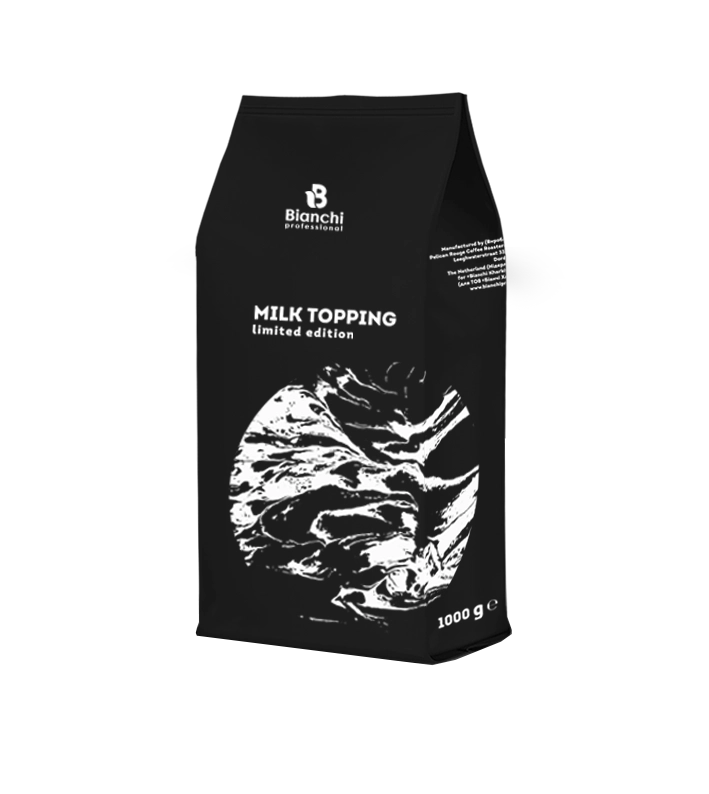
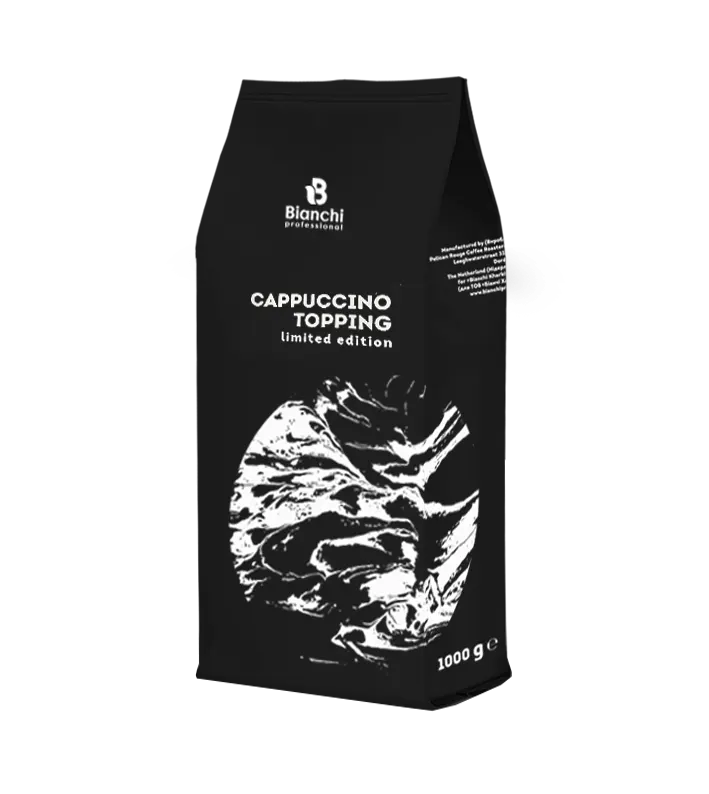
Cappuccino Topping

diff --git a/src/ru/moloko_shokolad.html b/src/ru/moloko_shokolad.html
@@ -338,7 +338,7 @@
             </figcaption>
           </figure>
           <div class="card-body">
-            <h3 class="text-center">Сухая молочная смесь Bianchi <br /> Milk Topping</h3><br />
+            <h3 class="text-center">Сухая молочная смесь Bianchi <br /> Bianchi Professional</h3><br />
             <small>
               <p class="lh-sm">
                 Молочные сухие смеси – это основа для создания многих любимых кофейных напитков.
@@ -346,7 +346,7 @@
                 текстуру и вкус молочной пенки или базы для латте и других кофейных коктейлей.
               </p>
               <p class="lh-sm">
-                <b>Milk Topping</b> подчинит вас своей кремовой пеной и мягким вкусом.
+                <b>Cappuccino Topping</b> покорит вас своей кремовой пеной и мягким вкусом.
               </p>
               <p class="lh-sm">
                 Подходит для всех типов кофемашин, работающих с использованием сухого молока.

diff --git a/src/moloko_shokolad.html b/src/moloko_shokolad.html
@@ -340,7 +340,7 @@
                 Вони дозволяють отримати стабільну якість та легкість у приготуванні, забезпечуючи ідеальну
                 текстуру та смак молочної пінки або бази для лате та інших кавових коктейлів.</p>
               <p class="lh-sm">
-                <b>Milk Topping</b> підкорить вас своєю кремовою піною та м'яким смаком.
+                <b>Cappuccino Topping</b> підкорить вас своєю кремовою піною та м'яким смаком.
               </p>
               <p class="lh-sm">
                 Підходить для всіх типів кавомашин, які працюють з використанням сухого молока.
